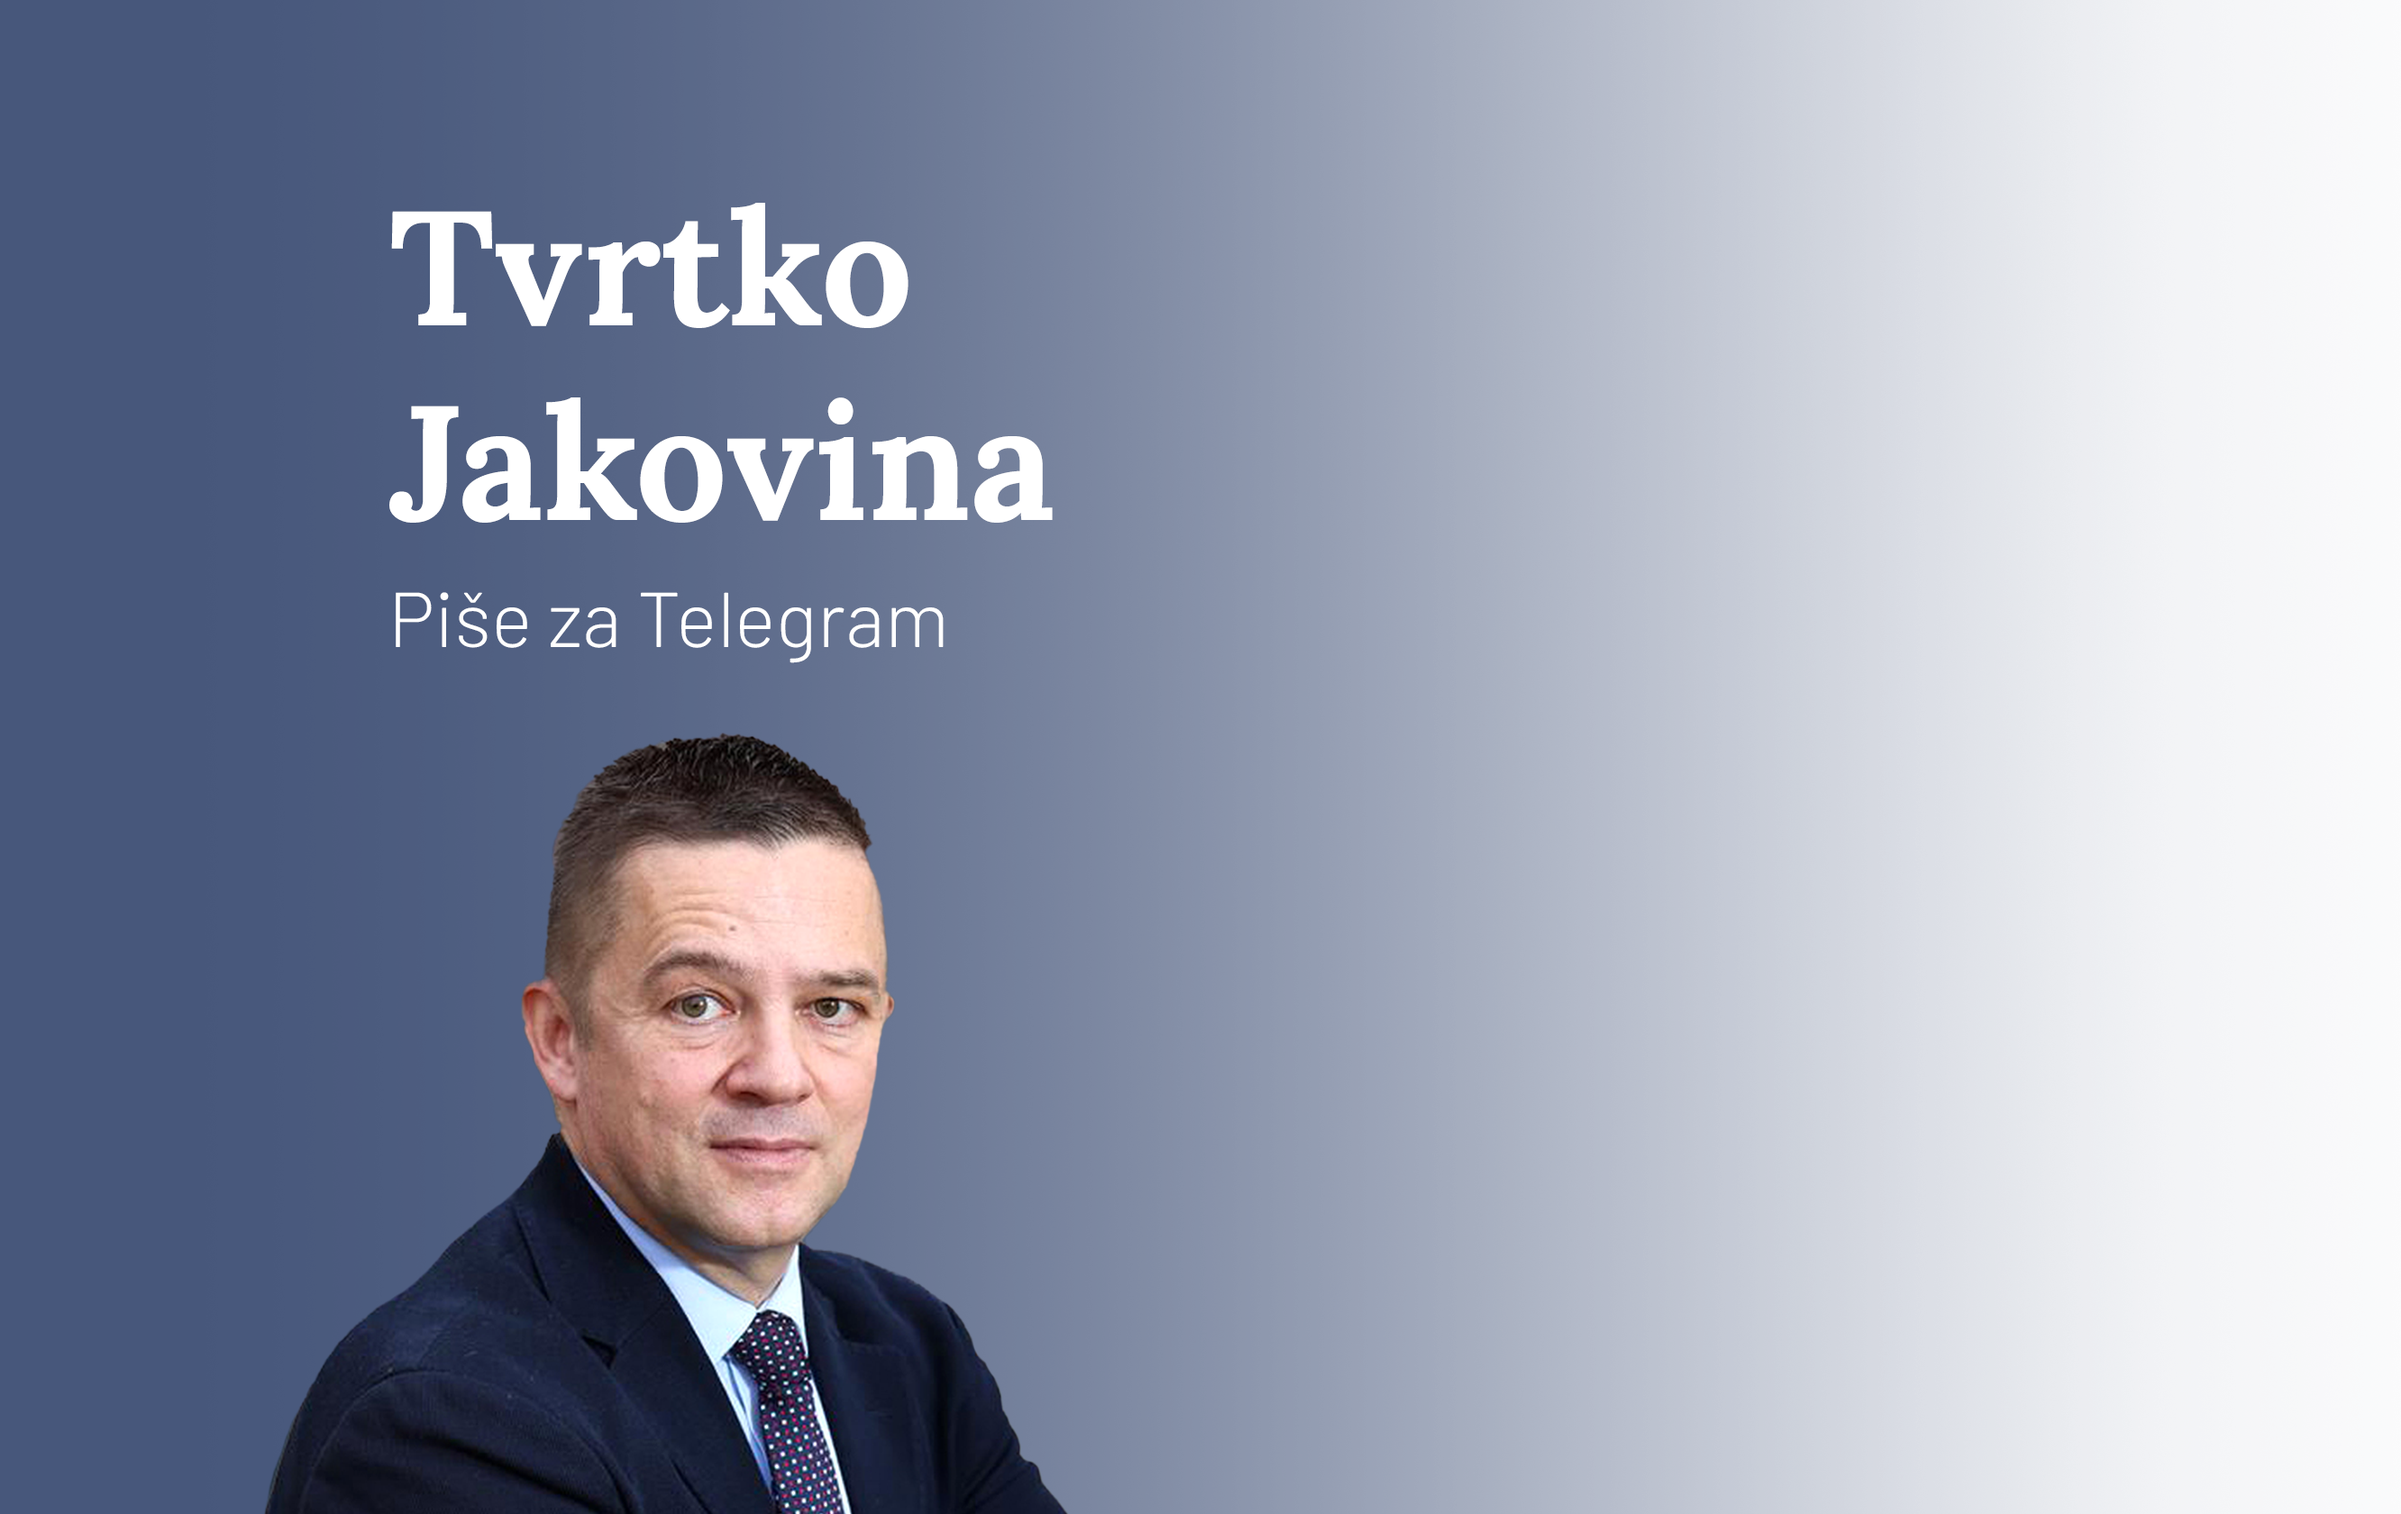
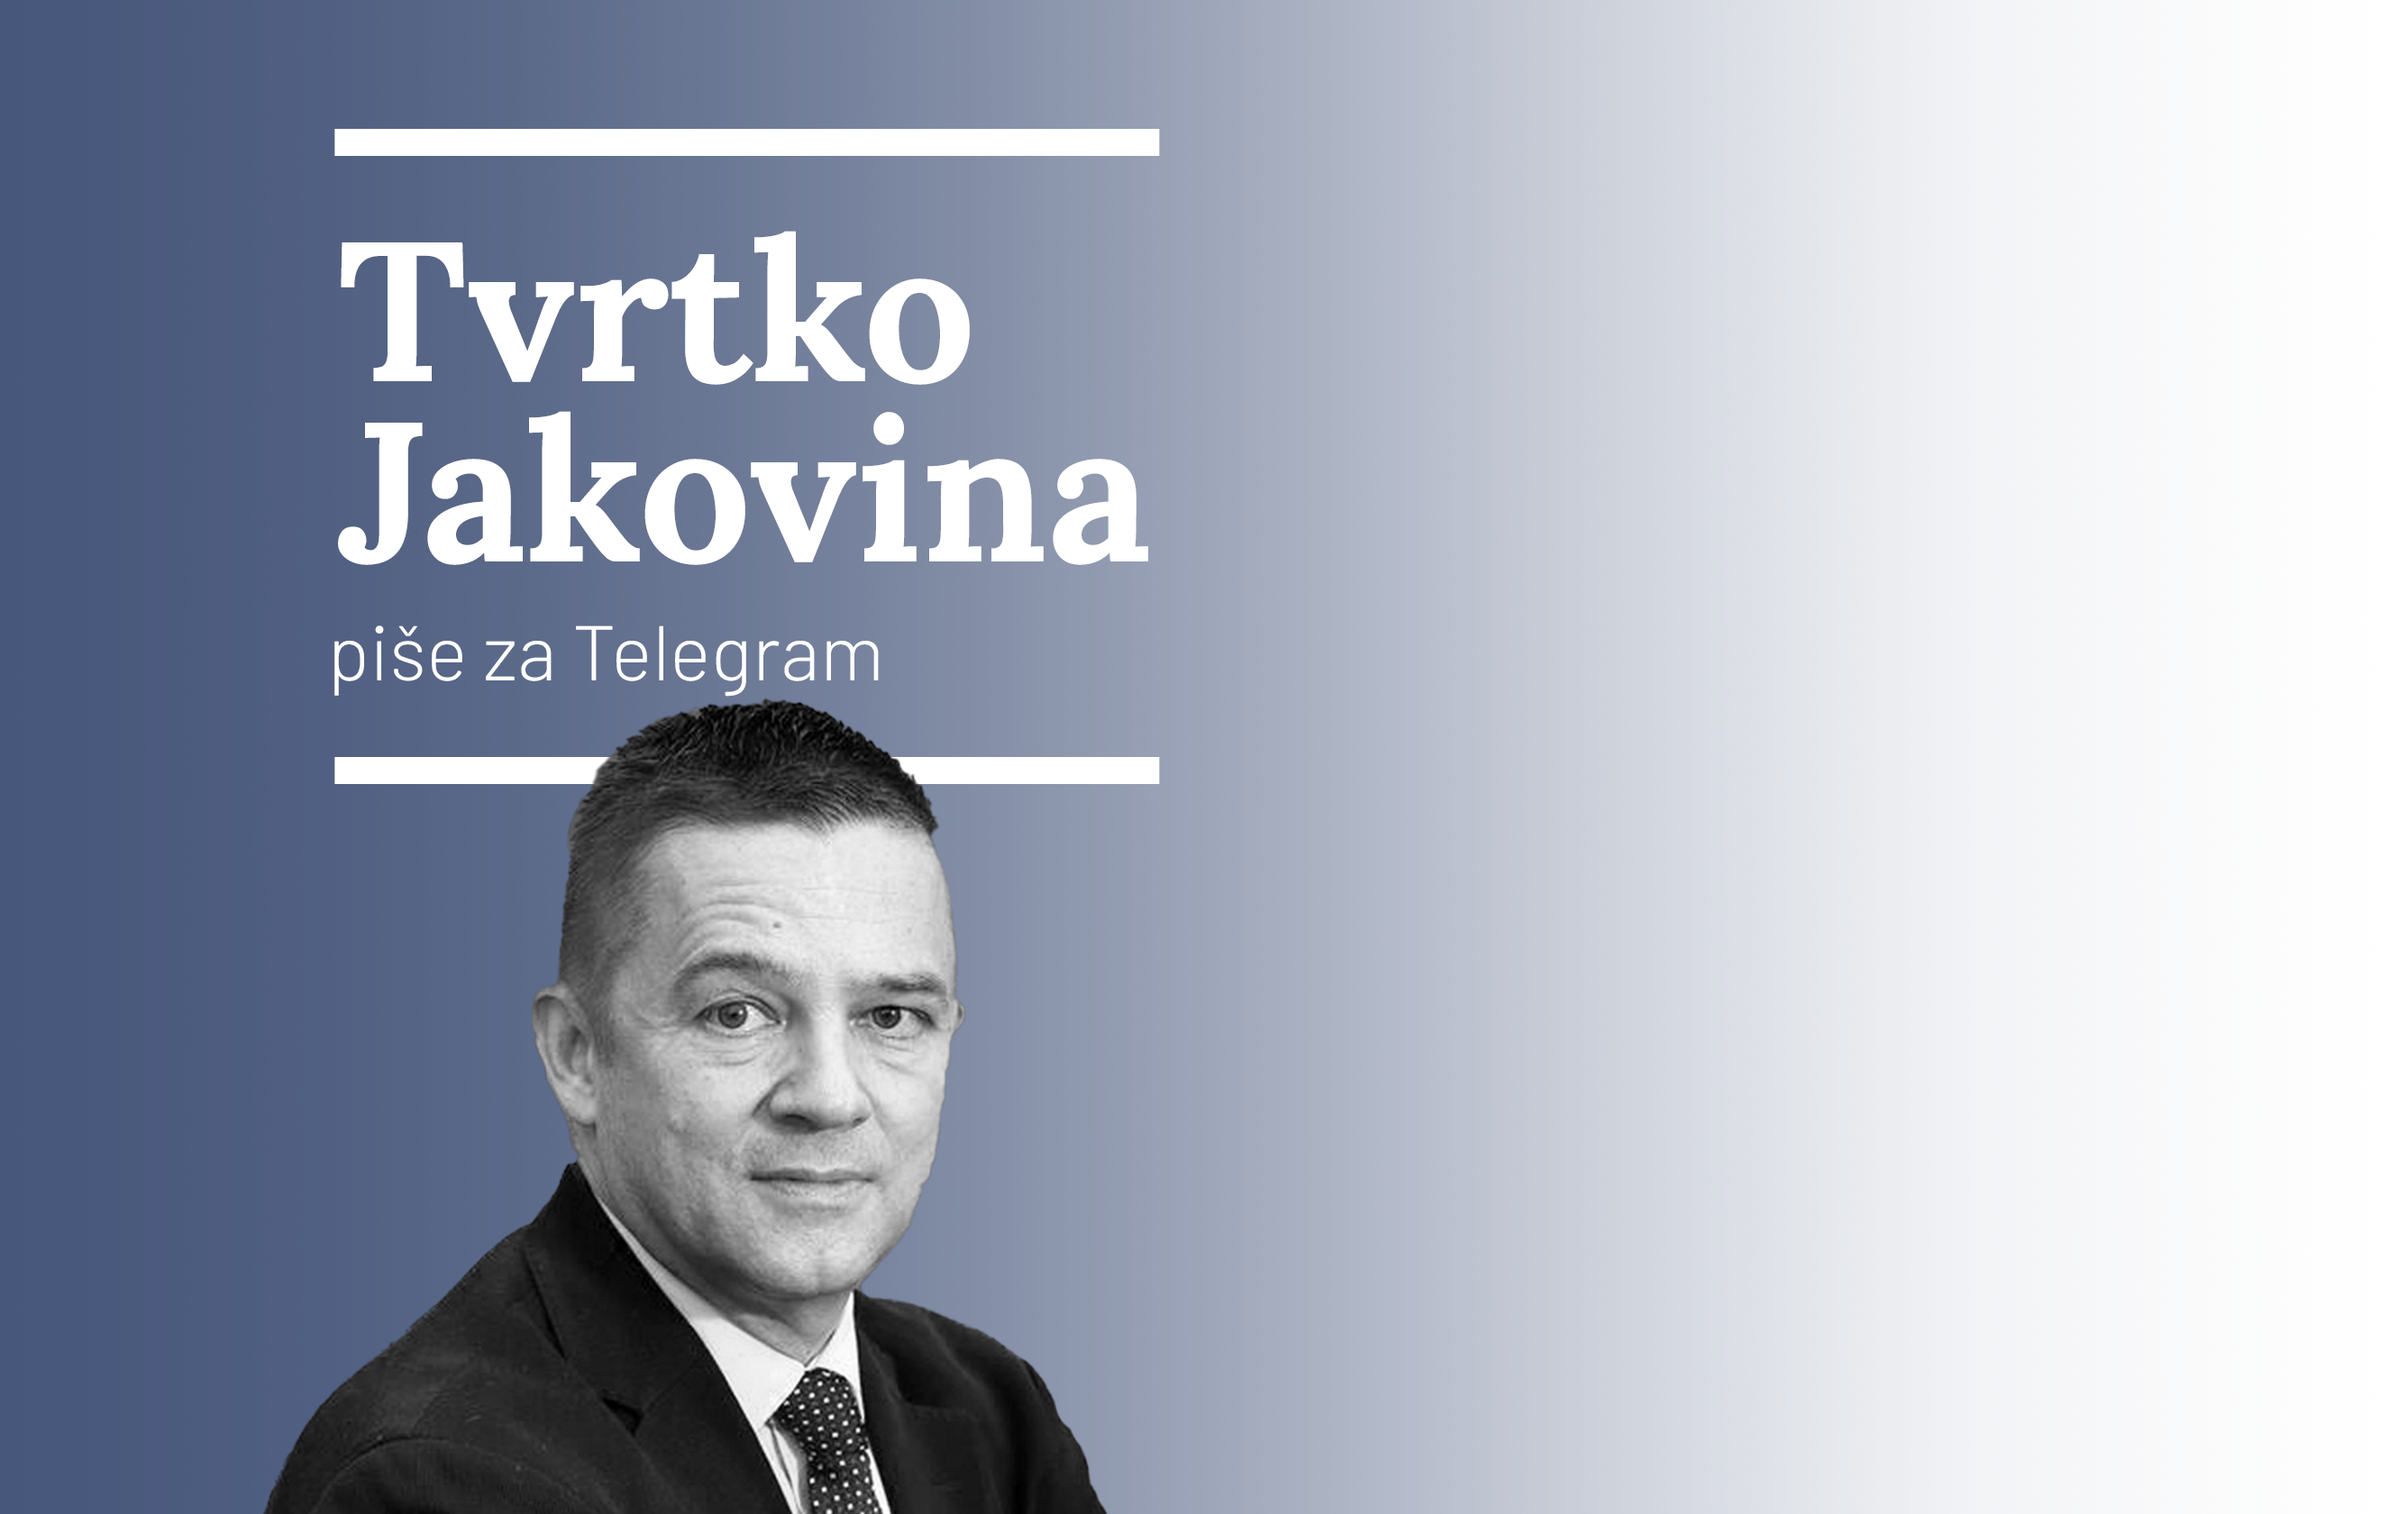
Update featured image tool - new style and options

Changed region(s): [[0.0935, 0.4024, 0.4985, 1.0], [0.1246, 0.0619, 0.4985, 0.3714]]

diff --git a/pages/studio/naslovne.vue b/pages/studio/naslovne.vue
@@ -111,15 +111,13 @@
               </div>
               <div class="half flex relative">
                 <input
-                  id="redzepovic"
+                  id="silvana"
                   v-model="autorType"
-                  :value="'redzepovic'"
+                  :value="'silvana'"
                   type="radio"
                   name="autorType"
                 />
-                <label class="clickable animate" for="redzepovic"
-                  >Redžepović</label
-                >
+                <label class="clickable animate" for="silvana">Menđušić</label>
               </div>
               <div class="half flex relative">
                 <input
@@ -133,13 +131,15 @@
               </div>
               <div class="half flex relative">
                 <input
-                  id="jurican"
+                  id="redzepovic"
                   v-model="autorType"
-                  :value="'jurican'"
+                  :value="'redzepovic'"
                   type="radio"
                   name="autorType"
                 />
-                <label class="clickable animate" for="jurican">Juričan</label>
+                <label class="clickable animate" for="redzepovic"
+                  >Redžepović</label
+                >
               </div>
               <div class="half flex relative">
                 <input
@@ -160,6 +160,16 @@
                   name="autorType"
                 />
                 <label class="clickable animate" for="jakovina">Jakovina</label>
+              </div>
+              <div class="half flex relative">
+                <input
+                  id="hrdalo"
+                  v-model="autorType"
+                  :value="'hrdalo'"
+                  type="radio"
+                  name="autorType"
+                />
+                <label class="clickable animate" for="hrdalo">Hrdalo</label>
               </div>
             </div>
             <div v-show="selected === 'krug'" class="full flex relative">
@@ -387,18 +397,18 @@
           height="1680"
         />
         <img
-          v-if="selected === 'autor' && autorType === 'redzepovic'"
-          id="redzepovic-overlay"
+          v-if="selected === 'autor' && autorType === 'silvana'"
+          id="silvana-overlay"
           class="generator-img-overlay"
-          src="@/assets/img/extras/naslovne/tg_dajmi_overlay_redzepovic.png"
+          src="@/assets/img/extras/naslovne/tg_dajmi_overlay_mendusic.png"
           width="2664"
           height="1680"
         />
         <img
-          v-if="selected === 'autor' && autorType === 'jurican'"
-          id="jurican-overlay"
+          v-if="selected === 'autor' && autorType === 'redzepovic'"
+          id="redzepovic-overlay"
           class="generator-img-overlay"
-          src="@/assets/img/extras/naslovne/tg_dajmi_overlay_jurican.png"
+          src="@/assets/img/extras/naslovne/tg_dajmi_overlay_redzepovic.png"
           width="2664"
           height="1680"
         />
@@ -414,7 +424,7 @@
           v-if="selected === 'autor' && autorType === 'jasmin'"
           id="jasmin-overlay"
           class="generator-img-overlay"
-          src="@/assets/img/extras/naslovne/tg_dajmi_overlay_jasmin.png"
+          src="@/assets/img/extras/naslovne/tg_dajmi_overlay_klaric.png"
           width="2664"
           height="1680"
         />
@@ -423,6 +433,14 @@
           id="jakovina-overlay"
           class="generator-img-overlay"
           src="@/assets/img/extras/naslovne/tg_dajmi_overlay_jakovina.png"
+          width="2664"
+          height="1680"
+        />
+        <img
+          v-if="selected === 'autor' && autorType === 'hrdalo'"
+          id="hrdalo-overlay"
+          class="generator-img-overlay"
+          src="@/assets/img/extras/naslovne/tg_dajmi_overlay_hrdalo.png"
           width="2664"
           height="1680"
         />

diff --git a/assets/style.css b/assets/style.css
@@ -9453,20 +9453,20 @@ html.large-fontsize, .fontsize-previews .large-fontsize {
     object-fit: cover;
 }
 #generator-krug.gorelijevo {
-    top: 100px;
-    left: 200px;
+    top: 150px;
+    left: 300px;
 }
 #generator-krug.goredesno {
-    top: 100px;
-    right: 200px;
+    top: 150px;
+    right: 300px;
 }
 #generator-krug.doljelijevo {
-    bottom: 100px;
-    left: 200px;
+    bottom: 150px;
+    left: 300px;
 }
 #generator-krug.doljedesno {
-    bottom: 100px;
-    right: 200px;
+    bottom: 150px;
+    right: 300px;
 }
 .trebam-hitno .third {
     padding: 24px;
